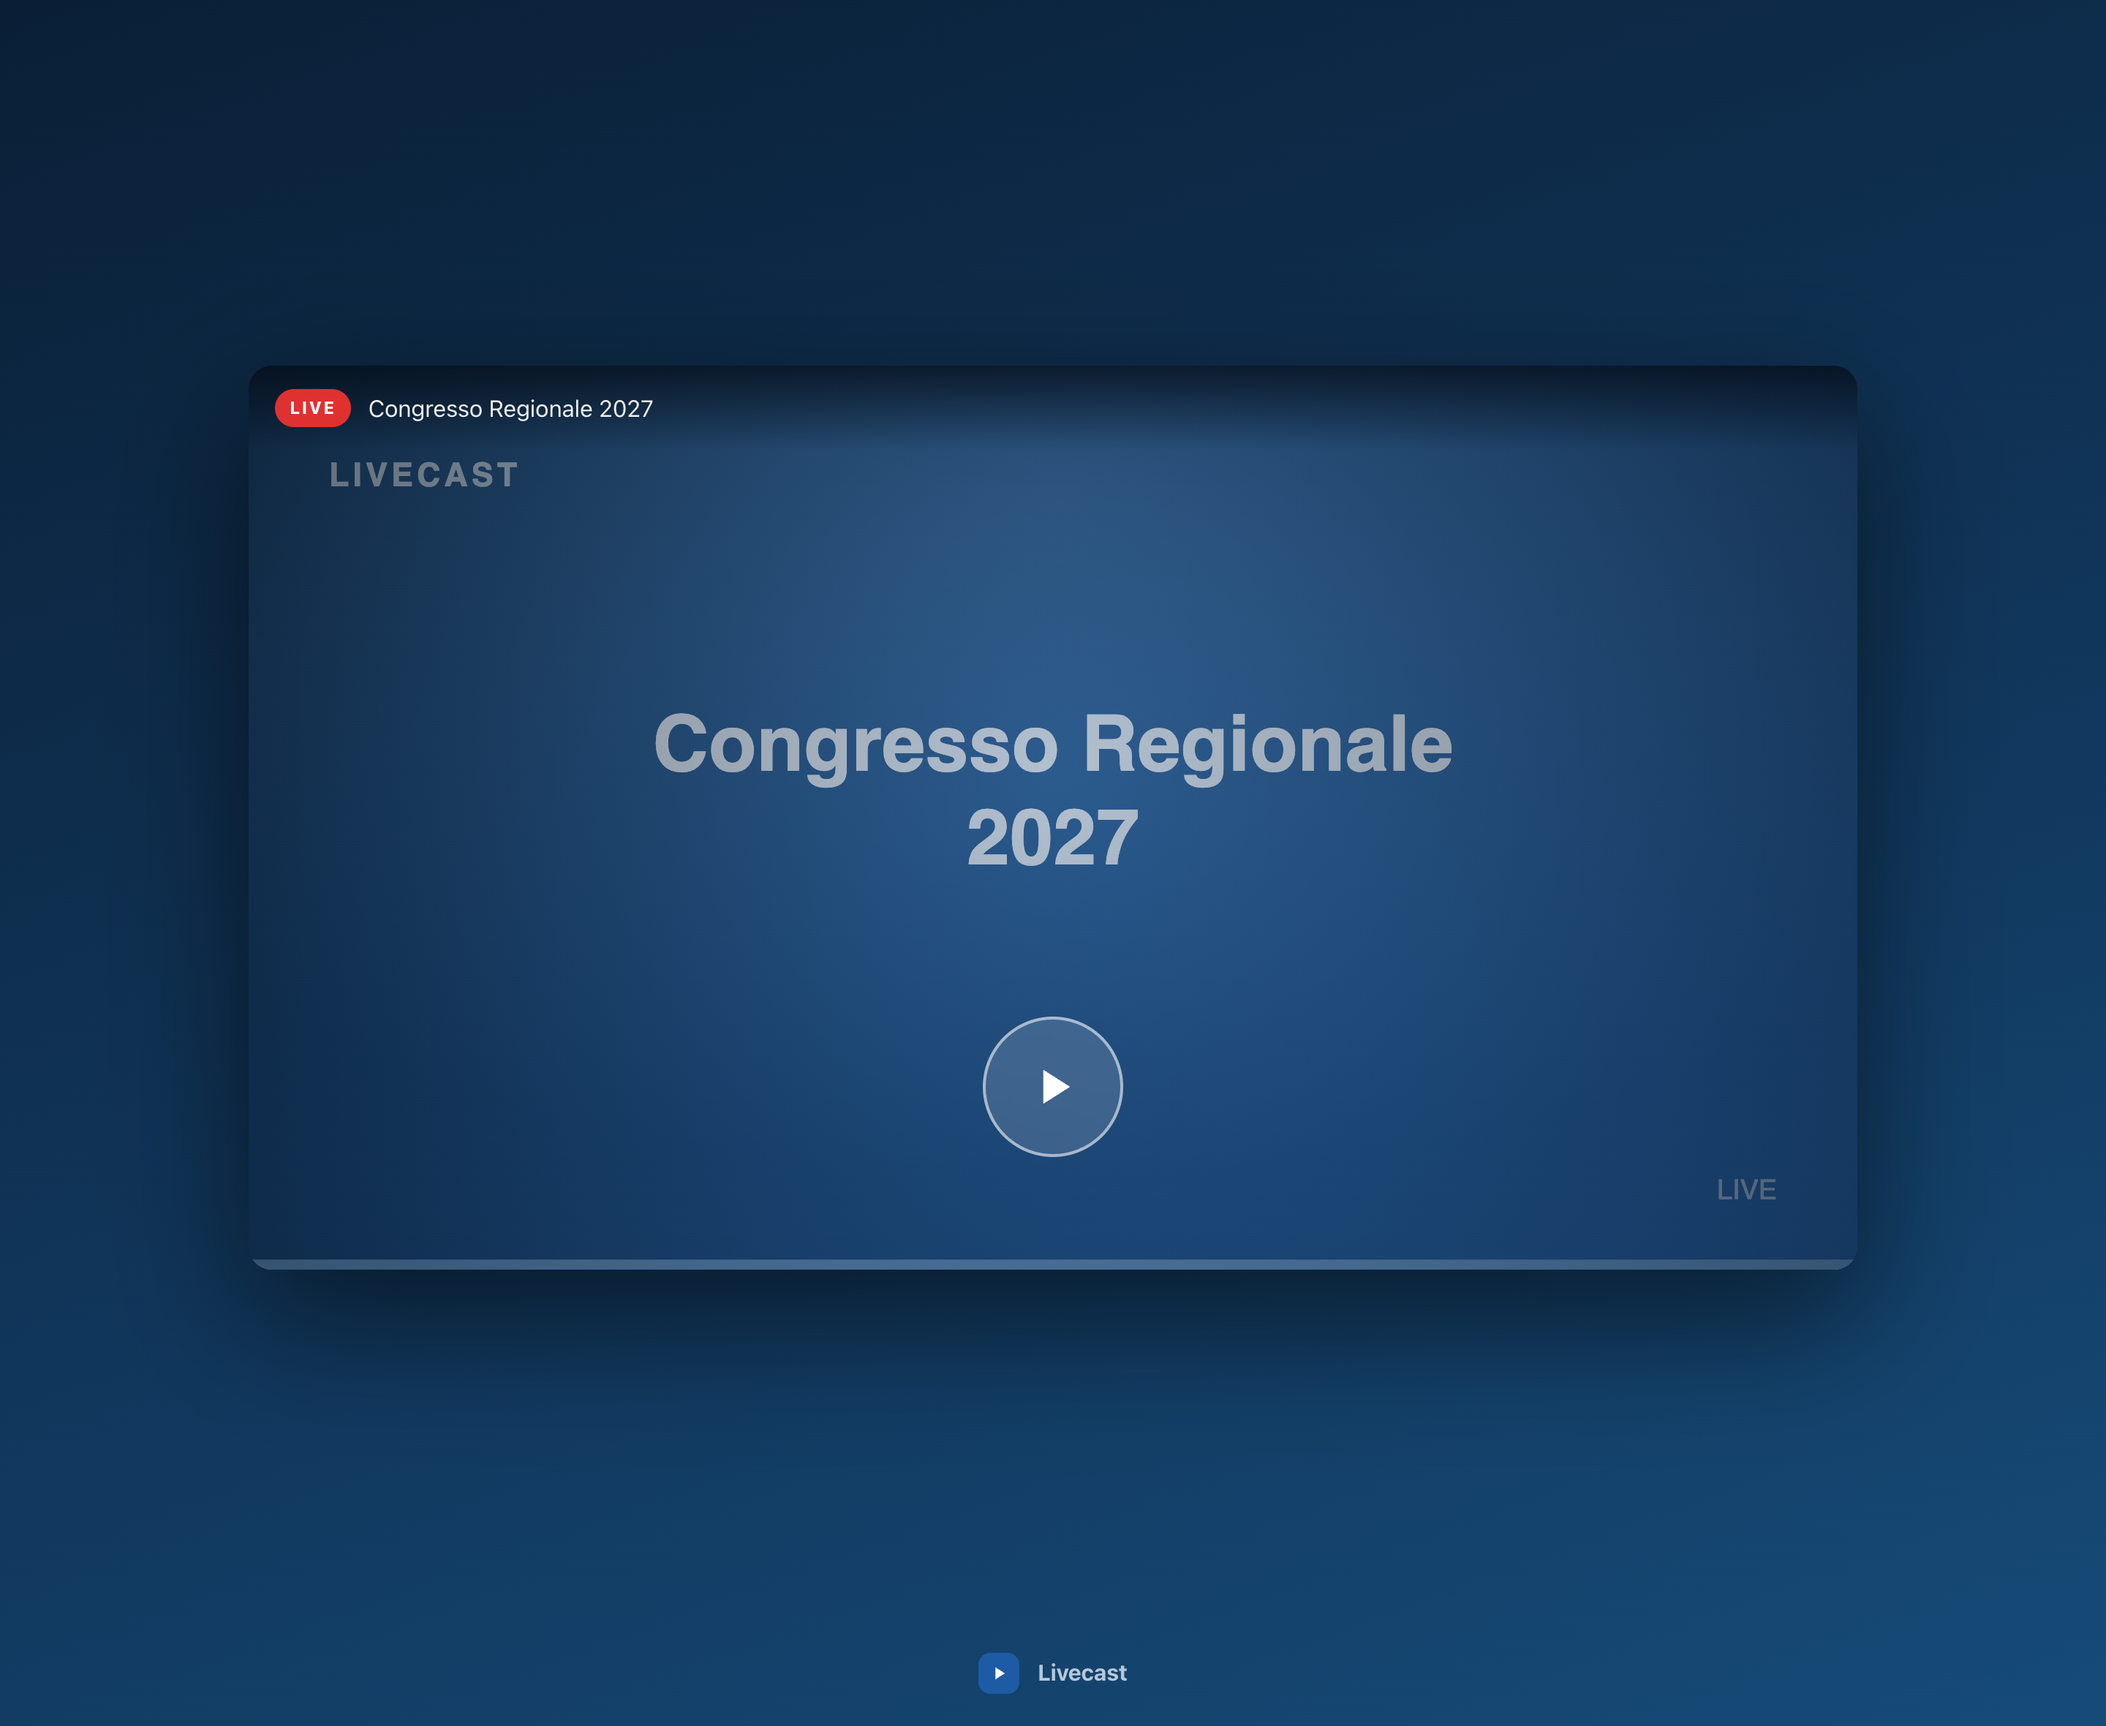
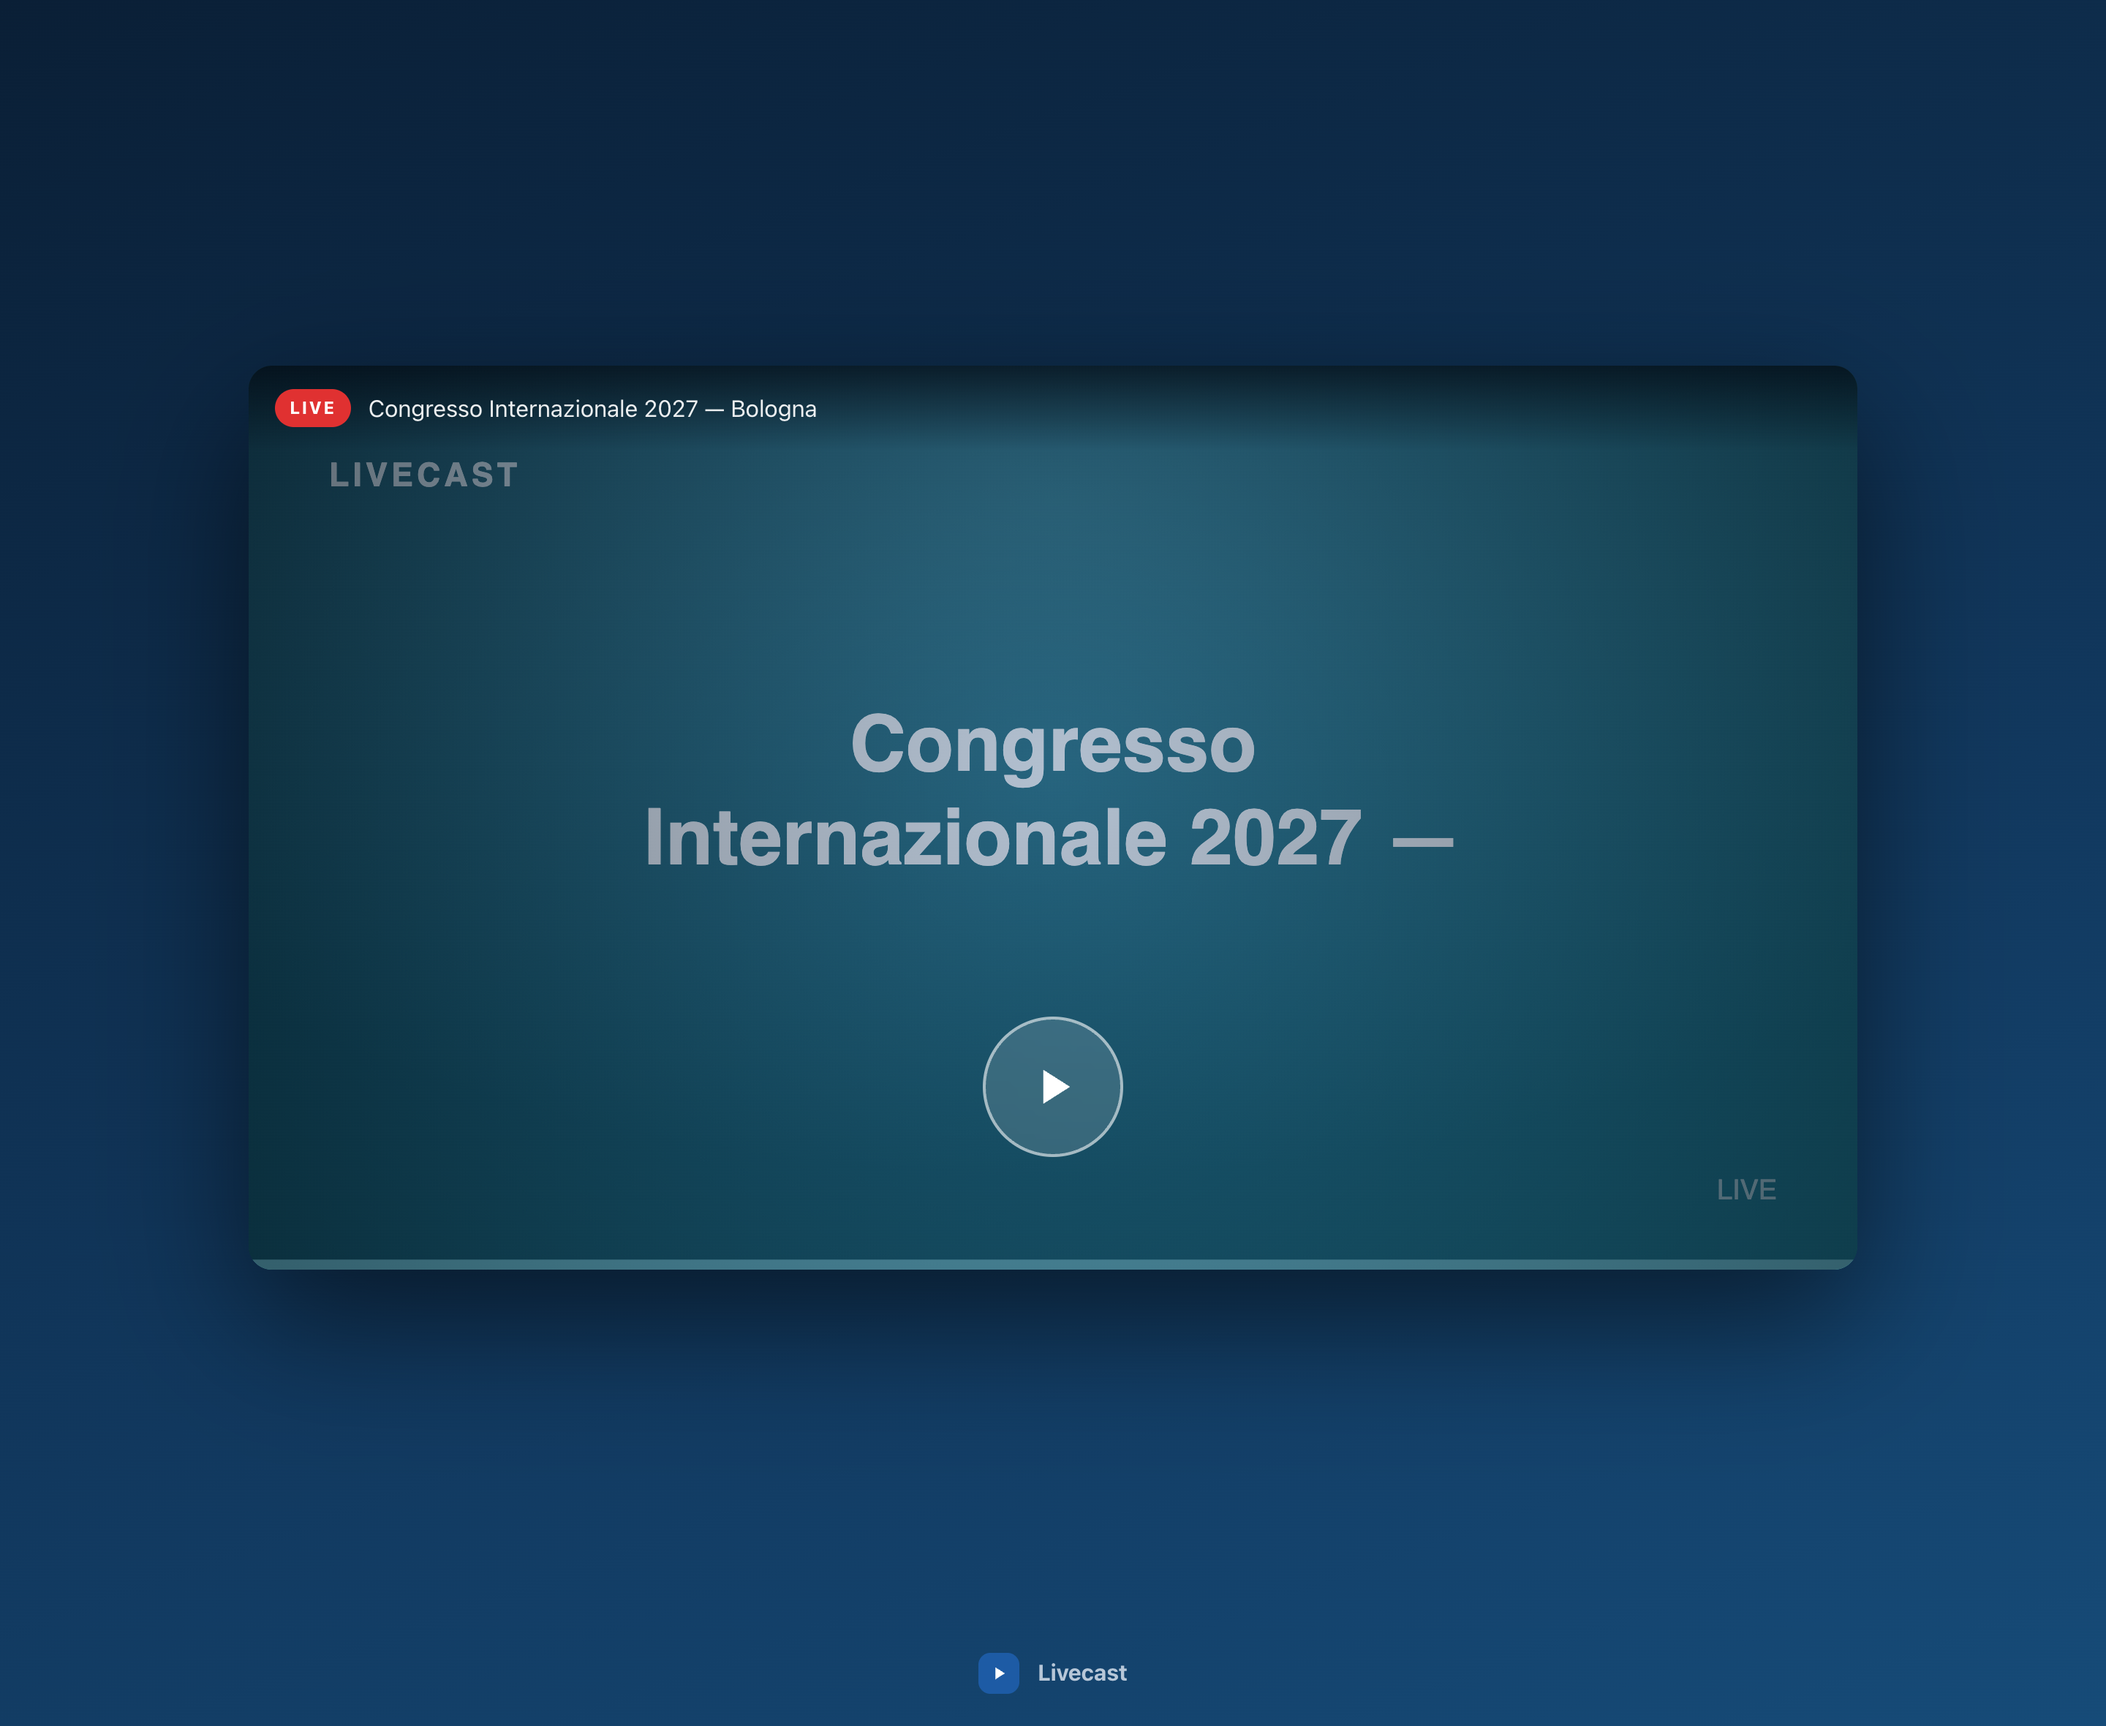
poster: a long event title keeps all its words
The wrap stopped after two lines, so "Congresso Internazionale 2027 — Bologna"
lost its city. Wrapping is now word-based with up to three lines and a font that
fits the length; only a title longer than the artwork is clipped, with an ellipsis
that says so.

The docs, the panel placeholder and the test fixtures use the same event name.

Changed region(s): [[0.2812, 0.4021, 0.6875, 0.5258], [0.25, 0.2165, 0.3125, 0.2475], [0.3438, 0.2165, 0.375, 0.2475]]

diff --git a/apps/api/src/poster.ts b/apps/api/src/poster.ts
@@ -38,29 +38,51 @@ function escapeXml(value: string): string {
     .replace(/'/g, "&apos;");
 }
 
-/** Splits a title into at most two balanced lines for the 16:9 poster. */
-function wrapTitle(title: string, maxChars = 22): string[] {
+/**
+ * Wraps a title to a line width, without ever losing a word.
+ *
+ * The previous version stopped after two lines, which silently truncated long
+ * event names ("Congresso Internazionale 2027 — Bologna" lost its city). Words
+ * are the unit: a title that needs more room gets a smaller font instead.
+ */
+function wrapTitle(title: string, maxChars: number, maxLines = 3): string[] {
   const words = title.split(/\s+/).filter(Boolean);
+  if (words.length === 0) return [title];
+
   const lines: string[] = [];
   let current = "";
   for (const word of words) {
-    if (!current) current = word;
-    else if (`${current} ${word}`.length <= maxChars) current += ` ${word}`;
-    else {
-      lines.push(current);
+    if (!current) {
       current = word;
+      continue;
     }
-    if (lines.length === 2) break;
+    if (`${current} ${word}`.length <= maxChars) {
+      current += ` ${word}`;
+      continue;
+    }
+    lines.push(current);
+    current = word;
   }
-  if (current && lines.length < 2) lines.push(current);
-  if (lines.length === 0) lines.push(title);
-  return lines.slice(0, 2);
+  if (current) lines.push(current);
+
+  if (lines.length <= maxLines) return lines;
+
+  // Only a title longer than the artwork can hold is clipped, and it says so.
+  const kept = lines.slice(0, maxLines);
+  kept[maxLines - 1] = `${kept[maxLines - 1]}…`;
+  return kept;
+}
+
+/** Font size and line width that fit a title of this length. */
+function titleFit(title: string): { fontSize: number; lines: string[] } {
+  const length = title.trim().length;
+  const plan = length <= 14 ? { fontSize: 76, maxChars: 14 } : length <= 30 ? { fontSize: 66, maxChars: 20 } : length <= 46 ? { fontSize: 58, maxChars: 24 } : { fontSize: 48, maxChars: 30 };
+  return { fontSize: plan.fontSize, lines: wrapTitle(title, plan.maxChars) };
 }
 
 export function posterSvg(opts: { title: string; brand: string; seed: string; palette?: string | null }): string {
   const palette = paletteByName(opts.palette) ?? paletteFor(opts.seed);
-  const lines = wrapTitle(opts.title);
-  const fontSize = lines.some((line) => line.length > 16) ? 62 : 76;
+  const { fontSize, lines } = titleFit(opts.title);
   const lineHeight = fontSize * 1.18;
   const startY = 360 - ((lines.length - 1) * lineHeight) / 2;
   const text = lines
@@ -100,8 +122,9 @@ export function posterSvg(opts: { title: string; brand: string; seed: string; pa
 export function overlaySvg(opts: { imageHref: string; title: string; brand: string }): string {
   // `imageHref` is a data: URI on purpose: an SVG loaded through <img> cannot
   // fetch external subresources, so a linked /uploads/… path renders empty.
-  const lines = wrapTitle(opts.title);
-  const fontSize = lines.some((line) => line.length > 18) ? 54 : 66;
+  const fit = titleFit(opts.title);
+  const lines = fit.lines;
+  const fontSize = Math.min(fit.fontSize, 62);
   const lineHeight = fontSize * 1.16;
   const firstY = 616 - ((lines.length - 1) * lineHeight);
   const text = lines

diff --git a/apps/api/test/app.test.ts b/apps/api/test/app.test.ts
@@ -571,7 +571,7 @@ describe("admin + public stream lifecycle", () => {
       method: "POST",
       url: "/api/admin/streams",
       headers: { cookie },
-      payload: { title: "Congresso Regionale", kind: "video" },
+      payload: { title: "Congresso Internazionale 2027 — Bologna", kind: "video" },
     });
     const stream = created.json().stream;
 
@@ -580,10 +580,10 @@ describe("admin + public stream lifecycle", () => {
       method: "PATCH",
       url: `/api/admin/streams/${stream.id}`,
       headers: { cookie },
-      payload: { title: "Congresso Regionale 2027", posterPalette: "teal" },
+      payload: { title: "Congresso Internazionale 2027 — Bologna", posterPalette: "teal" },
     });
     expect(renamedEarly.statusCode).toBe(200);
-    expect(renamedEarly.json().stream.title).toBe("Congresso Regionale 2027");
+    expect(renamedEarly.json().stream.title).toBe("Congresso Internazionale 2027 — Bologna");
     expect(renamedEarly.json().stream.posterPalette).toBe("teal");
 
     await app.inject({ method: "POST", url: `/api/admin/streams/${stream.id}/start`, headers: { cookie } });
@@ -630,7 +630,7 @@ describe("admin + public stream lifecycle", () => {
       method: "PATCH",
       url: `/api/admin/streams/${stream.id}`,
       headers: { cookie },
-      payload: { title: "Congresso Regionale 2027 — replica" },
+      payload: { title: "Congresso Internazionale 2027 — Bologna — replica" },
     });
     expect(renamedEnded.statusCode).toBe(200);
   });
@@ -690,13 +690,30 @@ describe("admin + public stream lifecycle", () => {
     expect(reuse.statusCode).toBe(401);
   });
 
+  it("keeps every word of a long event title on the poster", async () => {
+    const cookie = await login();
+    const created = await app.inject({
+      method: "POST",
+      url: "/api/admin/streams",
+      headers: { cookie },
+      payload: { title: "Congresso Internazionale 2027 — Bologna" },
+    });
+    const stream = created.json().stream;
+    const poster = await app.inject({ method: "GET", url: `/api/poster/${stream.slug}` });
+    expect(poster.statusCode).toBe(200);
+    // The two-line poster used to drop the tail of a long title.
+    for (const word of ["Congresso", "Internazionale", "2027", "Bologna"]) {
+      expect(poster.body).toContain(word);
+    }
+  });
+
   it("generates poster artwork when no image was uploaded", async () => {
     const cookie = await login();
     const created = await app.inject({
       method: "POST",
       url: "/api/admin/streams",
       headers: { cookie },
-      payload: { title: "Congresso Regionale 2027" },
+      payload: { title: "Congresso Internazionale 2027 — Bologna" },
     });
     const stream = created.json().stream;
     expect(stream.fallbackPosterUrl).toBe(`/api/poster/${stream.slug}`);

diff --git a/docs/guides/guide-it.html b/docs/guides/guide-it.html
@@ -334,7 +334,7 @@
       <p class="caption">1. Schermata di accesso.</p>
 
       <p>
-        Nel riquadro <b>Diretta</b> scrivi il titolo — per esempio <b>Congresso Regionale</b> o <b>Evento semestrale</b> — scegli <b>Video</b> o <b>Solo audio</b>, carica se vuoi l'<b>immagine evento</b> (e spunta «Mostra il nome sopra l'immagine» se vuoi il titolo in sovrimpressione). Non c'è niente da salvare: ogni modifica si applica subito e l'anteprima si aggiorna mentre scrivi. Quando sei pronto premi <b>● ONLINE</b>.
+        Nel riquadro <b>Diretta</b> scrivi il titolo — per esempio <b>Congresso Internazionale 2027 — Bologna</b> — scegli <b>Video</b> o <b>Solo audio</b>, carica se vuoi l'<b>immagine evento</b> (e spunta «Mostra il nome sopra l'immagine» se vuoi il titolo in sovrimpressione). Non c'è niente da salvare: ogni modifica si applica subito e l'anteprima si aggiorna mentre scrivi. Quando sei pronto premi <b>● ONLINE</b>.
       </p>
       <p class="small">
         Il link della diretta è lì sopra, con <b>Copia link</b>: puoi già mandarlo, perché chi lo apre vede il nome

diff --git a/docs/guides/guide-en.html b/docs/guides/guide-en.html
@@ -147,7 +147,7 @@
       <p class="caption">1. Sign-in screen.</p>
 
       <p>
-        In the <b>Diretta</b> box write the title — for example <b>Congresso Regionale</b> or <b>Evento semestrale</b> — choose <b>Video</b> or <b>Audio only</b>, add the <b>event image</b> if you want (and tick “Show the event name over the image” to print the title on it). There is nothing to save: every change applies at once and the preview follows while you type. When you are ready press <b>● ONLINE</b>.
+        In the <b>Diretta</b> box write the title — for example <b>Congresso Internazionale 2027 — Bologna</b> — choose <b>Video</b> or <b>Audio only</b>, add the <b>event image</b> if you want (and tick “Show the event name over the image” to print the title on it). There is nothing to save: every change applies at once and the preview follows while you type. When you are ready press <b>● ONLINE</b>.
       </p>
       <p class="small">
         The broadcast link sits right above, with <b>Copia link</b>: you can already share it, because whoever opens

diff --git a/apps/web/src/pages/Admin.tsx b/apps/web/src/pages/Admin.tsx
@@ -725,7 +725,7 @@ function BroadcastConfig({
       <div className="row wrap">
         <input
           className="input grow"
-          placeholder="Titolo — es. Congresso Regionale / Evento semestrale"
+          placeholder="Titolo — es. Congresso Internazionale 2027 — Bologna"
           value={titleDraft}
           maxLength={120}
           autoFocus
